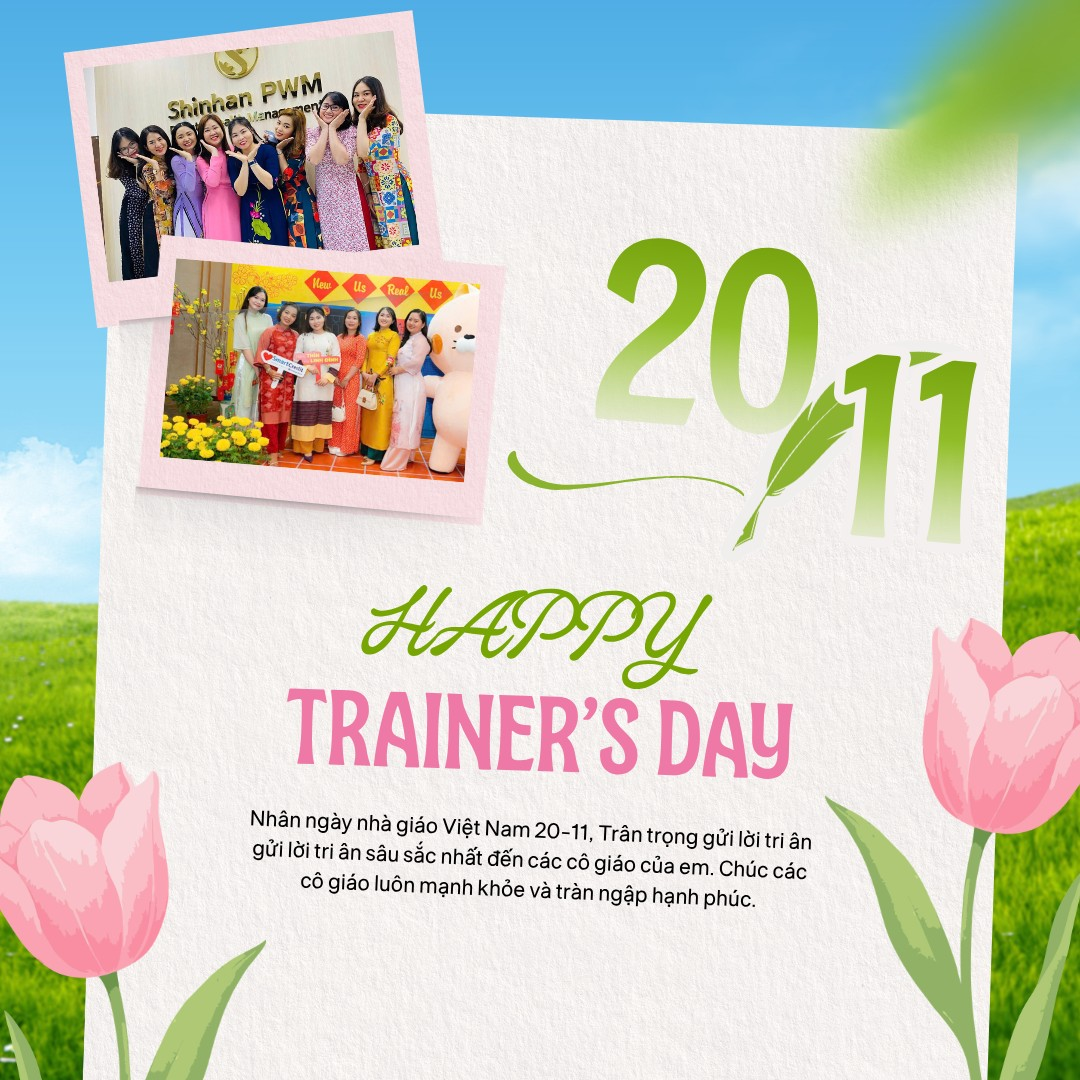
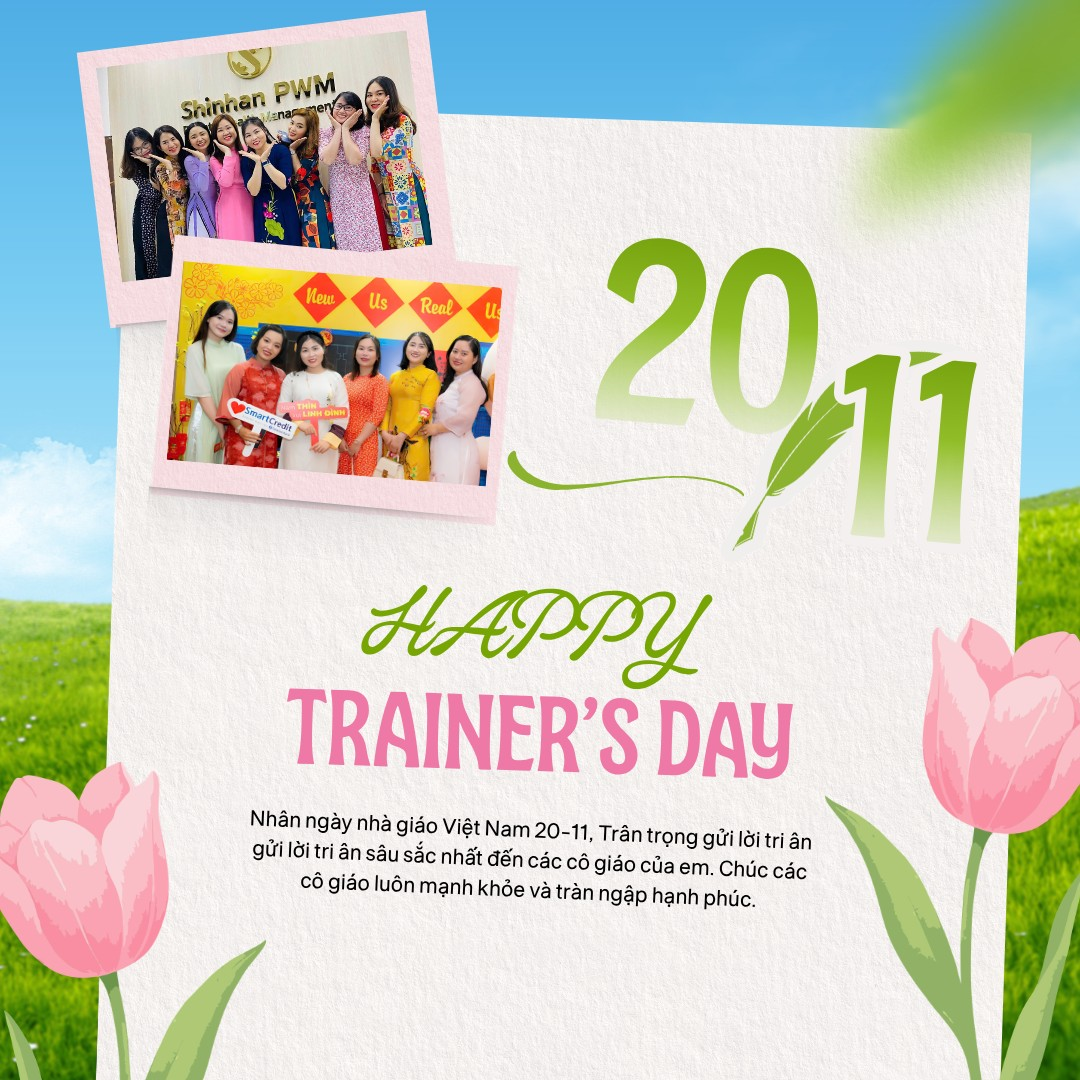
Thiệp các cô giáo: nền trời xanh và cỏ, phong thư hồng, tung tulip và lá xanh; cập nhật ảnh mới
Claude-Session: https://claude.ai/code/session_01TVsokyfeTcjHwqjBBAJmMg

diff --git a/thiep-2011/cac-co-giao/index.html b/thiep-2011/cac-co-giao/index.html
@@ -16,16 +16,19 @@
 <link href="https://fonts.googleapis.com/css2?family=Dancing+Script:wght@500;700&family=Be+Vietnam+Pro:wght@400;500;600&display=swap" rel="stylesheet">
 <style>
   :root{
-    --teal:#1fa3a3; --gold:#b8a630; --paper:#fbf8f1; --kraft:#e8d3b0; --kraft2:#d9bf96; --ink:#2f4f7a;
+    --teal:#1fa3a3; --gold:#b8a630; --paper:#fbf8f1; --kraft:#fbe3ec; --kraft2:#f2c6d6; --ink:#2f4f7a;
   }
   *{box-sizing:border-box;margin:0;padding:0}
   html,body{height:100%}
   body{
     font-family:"Be Vietnam Pro",system-ui,sans-serif;color:var(--ink);
     background:
-      radial-gradient(circle at 15% 20%, #f4fbf8 0, transparent 40%),
-      radial-gradient(circle at 85% 80%, #eaf7f2 0, transparent 45%),
-      linear-gradient(160deg,#e4f4ef,#cfe9e1 60%,#d9efe8);
+      radial-gradient(ellipse 38% 9% at 18% 16%, rgba(255,255,255,.95) 0, rgba(255,255,255,0) 100%),
+      radial-gradient(ellipse 30% 7% at 80% 9%, rgba(255,255,255,.85) 0, rgba(255,255,255,0) 100%),
+      radial-gradient(ellipse 26% 6% at 64% 26%, rgba(255,255,255,.7) 0, rgba(255,255,255,0) 100%),
+      radial-gradient(ellipse 120% 40% at 50% 112%, #8cc63f 0, #b5dc6e 45%, rgba(181,220,110,0) 75%),
+      linear-gradient(180deg,#5fb3e6 0%,#93cff0 30%,#cfeaf8 58%,#eef7e6 78%,#cde9a0 100%);
+    background-attachment:fixed;
     min-height:100vh;overflow-x:hidden;display:flex;align-items:center;justify-content:center;
   }
   #petals{position:fixed;inset:0;pointer-events:none;z-index:0;width:100%;height:100%}
@@ -52,9 +55,9 @@
       linear-gradient(to top right, var(--kraft) 50%, transparent 50.3%) left bottom/50.2% 100% no-repeat,
       linear-gradient(to top left,  var(--kraft) 50%, transparent 50.3%) right bottom/50.2% 100% no-repeat;
   }
-  .env-bottom{position:absolute;left:0;right:0;bottom:0;height:62%;z-index:4;border-radius:0 0 10px 10px;clip-path:polygon(0 100%,50% 18%,100% 100%);background-color:#efdcbc}
+  .env-bottom{position:absolute;left:0;right:0;bottom:0;height:62%;z-index:4;border-radius:0 0 10px 10px;clip-path:polygon(0 100%,50% 18%,100% 100%);background-color:#fdeef3}
   .env-flap{
-    position:absolute;left:0;right:0;top:0;height:62%;z-index:5;background:#e2c9a0;clip-path:polygon(0 0,100% 0,50% 100%);
+    position:absolute;left:0;right:0;top:0;height:62%;z-index:5;background:#f7d3e1;clip-path:polygon(0 0,100% 0,50% 100%);
     transform-origin:top center;transition:transform .7s cubic-bezier(.4,.1,.3,1), z-index 0s .35s;
   }
   .envelope.open .env-flap{transform:rotateX(180deg);z-index:1}
@@ -74,11 +77,11 @@
   .seal svg{animation:beat 1.2s ease-in-out infinite}
   @keyframes beat{0%,100%{transform:scale(1)}15%{transform:scale(1.18)}30%{transform:scale(1)}45%{transform:scale(1.1)}}
   .envelope.open .seal{opacity:0;transform:translate(-50%,-50%) scale(1.6)}
-  .to{position:absolute;left:0;right:0;bottom:12%;z-index:6;font-family:"Dancing Script",cursive;font-size:clamp(22px,6vw,30px);color:#6b5434;transition:opacity .3s}
+  .to{position:absolute;left:0;right:0;bottom:12%;z-index:6;font-family:"Dancing Script",cursive;font-size:clamp(22px,6vw,30px);color:#c2457a;transition:opacity .3s}
   .envelope.open .to{opacity:0}
   .letter{position:absolute;left:7%;right:7%;top:8%;bottom:8%;z-index:2;background:var(--paper);border-radius:6px;transition:transform .8s cubic-bezier(.3,.1,.2,1) .45s}
   .envelope.open .letter{transform:translateY(-55%)}
-  .hint{margin-top:26px;font-size:14px;color:#4f7a73;display:inline-flex;gap:8px;align-items:center}
+  .hint{margin-top:26px;font-size:14px;color:#3f6f1a;display:inline-flex;gap:8px;align-items:center}
   .hint .dot{width:8px;height:8px;border-radius:50%;background:#ee6fa0;animation:pulse 1.4s infinite}
   @keyframes pulse{50%{transform:scale(1.7);opacity:.35}}
 
@@ -106,8 +109,8 @@
   .btn.liked{background:linear-gradient(135deg,#ff7aa2,#e4507a)}
   .toast{position:fixed;left:50%;bottom:28px;transform:translateX(-50%) translateY(20px);opacity:0;background:#234;color:#fff;padding:10px 18px;border-radius:999px;font-size:14px;transition:.3s;z-index:30}
   .toast.on{opacity:.92;transform:translateX(-50%)}
-  .foot{margin-top:18px;font-family:"Dancing Script",cursive;font-size:20px;color:#4f7a73}
-  .tap-hint{margin-top:10px;font-size:12.5px;color:#6b9a92;opacity:.85}
+  .foot{margin-top:18px;font-family:"Dancing Script",cursive;font-size:20px;color:#4e8a12;text-shadow:0 1px 0 rgba(255,255,255,.7)}
+  .tap-hint{margin-top:10px;font-size:12.5px;color:#4e7a2a;opacity:.9}
 
 </style>
 </head>
@@ -192,9 +195,28 @@
     const gr=g.createLinearGradient(0,22,0,-22);gr.addColorStop(0,c2);gr.addColorStop(1,c1);g.fillStyle=gr;
     g.beginPath();g.moveTo(0,22);g.bezierCurveTo(-18,8,-16,-16,-6,-22);g.lineTo(0,-17);g.lineTo(6,-22);g.bezierCurveTo(16,-16,18,8,0,22);g.fill();
   });}
-  const HEARTS=[heart("#ff9fbf","#ff3f74"),heart("#ffc2d4","#ff7aa2"),heart("#ff8aa8","#e8335f"),heart("#ffd1dc","#ff92b2"),heart("#ffb199","#ff5e62")];
-  const FLOWERS=[sakura("#ffe3ee","#ff9dc0"),sakura("#ffffff","#ffc9dc"),sakura("#fff1f6","#ffb3cd"),daisy("#ffffff","#f2b233"),daisy("#fff4e0","#f0a43a")];
-  const PETALS=[petal("#ffe6ef","#ffb0cb"),petal("#ffffff","#ffd3e2"),petal("#fff0e6","#ffc4a8")];
+  function tulip(c1,c2){return mk(g=>{
+    g.strokeStyle="#6aa832";g.lineWidth=2.6;g.lineCap="round";g.beginPath();g.moveTo(0,0);g.quadraticCurveTo(2,14,0,29);g.stroke();
+    let lg=g.createLinearGradient(-14,24,-6,0);lg.addColorStop(0,"#5f9a12");lg.addColorStop(1,"#a6d84a");g.fillStyle=lg;
+    g.beginPath();g.moveTo(0,27);g.quadraticCurveTo(-17,16,-13,2);g.quadraticCurveTo(-4,14,0,27);g.fill();
+    lg=g.createLinearGradient(14,24,6,4);lg.addColorStop(0,"#5f9a12");lg.addColorStop(1,"#b7e05e");g.fillStyle=lg;
+    g.beginPath();g.moveTo(1,29);g.quadraticCurveTo(15,20,12,8);g.quadraticCurveTo(5,18,1,29);g.fill();
+    const gr=g.createLinearGradient(0,-26,0,3);gr.addColorStop(0,c1);gr.addColorStop(1,c2);g.fillStyle=gr;
+    g.shadowColor="rgba(200,70,120,.25)";g.shadowBlur=3;
+    g.beginPath();g.moveTo(-12,-23);g.lineTo(-6,-14);g.lineTo(0,-26);g.lineTo(6,-14);g.lineTo(12,-23);
+    g.bezierCurveTo(15,-6,9,2,0,2);g.bezierCurveTo(-9,2,-15,-6,-12,-23);g.fill();
+    g.shadowColor="transparent";g.fillStyle="rgba(255,255,255,.35)";g.beginPath();g.ellipse(-5,-12,2.6,7,.2,0,7);g.fill();
+    g.strokeStyle="rgba(200,60,110,.25)";g.lineWidth=1;g.beginPath();g.moveTo(0,-20);g.quadraticCurveTo(2,-8,0,1);g.stroke();
+  });}
+  function leaf(c1,c2){return mk(g=>{
+    const gr=g.createLinearGradient(-10,22,10,-22);gr.addColorStop(0,c2);gr.addColorStop(1,c1);g.fillStyle=gr;
+    g.beginPath();g.moveTo(0,26);g.bezierCurveTo(-16,10,-12,-14,0,-26);g.bezierCurveTo(12,-14,16,10,0,26);g.fill();
+    g.strokeStyle="rgba(255,255,255,.45)";g.lineWidth=1.2;g.beginPath();g.moveTo(0,24);g.lineTo(0,-22);g.stroke();
+    for(let i=-1;i<=1;i+=2)for(let y=-12;y<=14;y+=8){g.beginPath();g.moveTo(0,y);g.lineTo(i*7,y-6);g.stroke();}
+  });}
+  const HEARTS=[heart("#ffc2d6","#f36b9b"),heart("#ffd6e4","#f591b5"),heart("#ffb3cb","#e8538a"),heart("#ffe1eb","#f7a6c3")];
+  const FLOWERS=[tulip("#ffc4da","#f07aa8"),tulip("#ffd9e6","#f494b9"),tulip("#ffb5cf","#e65f93"),sakura("#ffffff","#ffc9dc"),sakura("#ffe8f0","#f8a9c6")];
+  const PETALS=[leaf("#c2e86a","#6aa832"),leaf("#a6d84a","#4e8a12"),leaf("#d4f08a","#79b51c"),petal("#ffe6ef","#f7a6c3"),petal("#ffffff","#ffd3e2")];
 
   const P=[]; const MAX=420;
   function add(o){ if(P.length>=MAX) return;
@@ -202,9 +224,9 @@
       sway:rnd(.4,1.2),freq:rnd(.02,.05),term:rnd(.9,1.8),mode:"fall",life:0,max:900,upright:false,a:1},o)); }
   function item(kind){
     const r=Math.random();
-    if(kind==="heart"||(!kind&&r<.55)) return {sp:pick(HEARTS),size:rnd(16,30),upright:true,rot:rnd(-.3,.3),vr:0};
-    if(kind==="petal"||(!kind&&r<.72)) return {sp:pick(PETALS),size:rnd(10,16)};
-    return {sp:pick(FLOWERS),size:rnd(18,30)};
+    if(kind==="heart"||(!kind&&r<.4)) return {sp:pick(HEARTS),size:rnd(16,30),upright:true,rot:rnd(-.3,.3),vr:0};
+    if(kind==="petal"||(!kind&&r<.68)) return {sp:pick(PETALS),size:rnd(14,22)};
+    return {sp:pick(FLOWERS),size:rnd(22,34),upright:true,rot:rnd(-.4,.4),vr:0};
   }
 
   // toss from a point upwards with a spread
@@ -297,7 +319,7 @@
   const cv=$("petals"), pc=cv.getContext("2d"); let PW,PH; const petals=[];
   function pres(){PW=cv.width=innerWidth*DPR;PH=cv.height=innerHeight*DPR;}
   addEventListener("resize",pres); pres();
-  const cols=["rgba(255,255,255,.85)","rgba(246,232,190,.8)","rgba(200,235,225,.8)"];
+  const cols=["rgba(255,255,255,.9)","rgba(255,190,214,.8)","rgba(180,222,110,.75)"];
   function np(any){return{x:Math.random()*PW,y:any?Math.random()*PH:-20,r:(6+Math.random()*8)*DPR,vy:(.4+Math.random()*.8)*DPR,vx:(Math.random()-.5)*.6*DPR,a:Math.random()*6.28,va:(Math.random()-.5)*.03,c:pick(cols),s:Math.random()*100};}
   for(let i=0;i<24;i++) petals.push(np(true));
   function ptick(ms){
